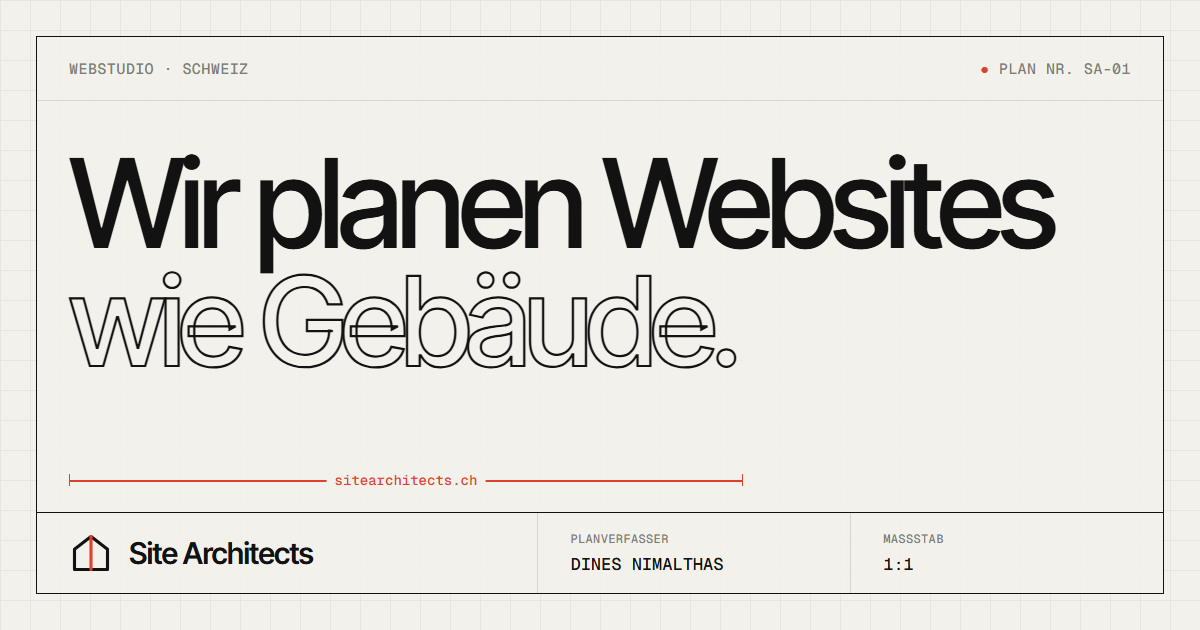
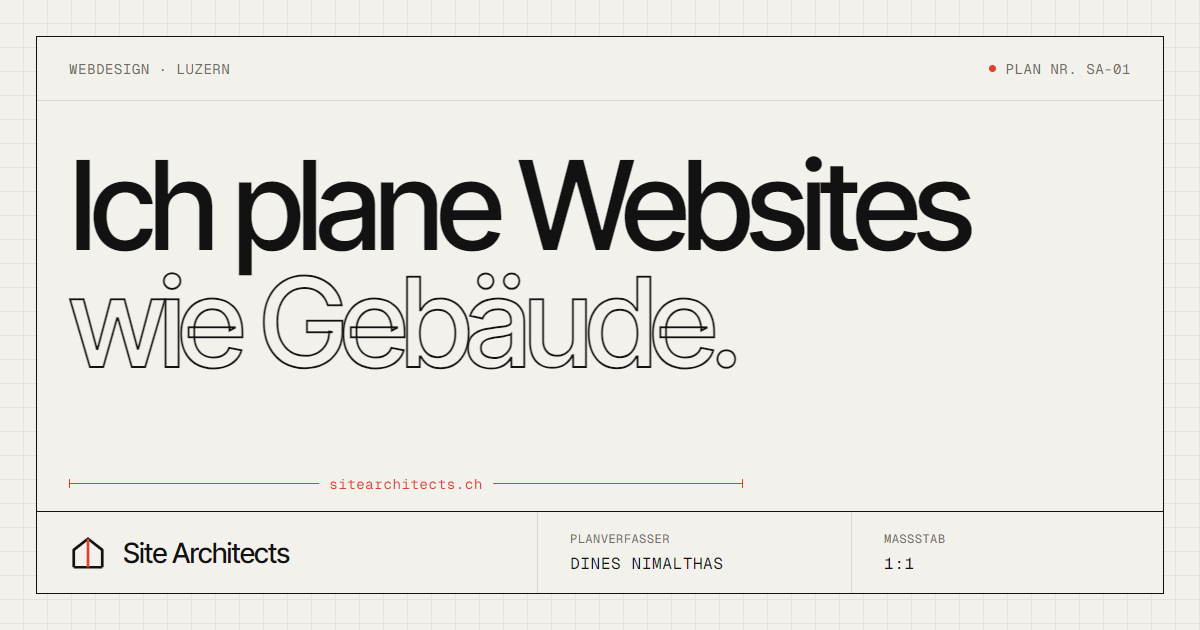
Ich-Form statt Wir, NN Architektur entfernt, neues Vorschaubild
- Texte auf Website und Datenschutz in der Ich-Form (Einzelperson)
- Projekt NN Architektur entfernt, da die Seite nicht mehr online ist
- og-image neu: "Ich plane Websites wie Gebäude.", Webdesign · Luzern

diff --git a/index.html b/index.html
@@ -8,17 +8,17 @@
   <meta property="og:type"        content="website" />
   <meta property="og:url"         content="https://sitearchitects.ch/" />
   <meta property="og:title"       content="Site Architects – Webdesign aus Luzern" />
-  <meta property="og:description" content="Wir planen Websites wie Gebäude. Individuell gestaltet und von Hand programmiert für KMU, Vereine und Selbstständige." />
+  <meta property="og:description" content="Ich plane Websites wie Gebäude. Individuell gestaltet und von Hand programmiert für KMU, Vereine und Selbstständige." />
   <meta name="twitter:title"       content="Site Architects – Webdesign aus Luzern" />
-  <meta name="twitter:description" content="Wir planen Websites wie Gebäude. Individuell gestaltet und von Hand programmiert." />
+  <meta name="twitter:description" content="Ich plane Websites wie Gebäude. Individuell gestaltet und von Hand programmiert." />
   <meta property="og:site_name"    content="Site Architects" />
-  <meta property="og:image"        content="https://sitearchitects.ch/assets/img/og-image.png?v=1" />
+  <meta property="og:image"        content="https://sitearchitects.ch/assets/img/og-image.png?v=2" />
   <meta property="og:image:width"  content="1200" />
   <meta property="og:image:height" content="630" />
-  <meta property="og:image:alt"    content="Site Architects – Wir planen Websites wie Gebäude." />
+  <meta property="og:image:alt"    content="Site Architects – Ich plane Websites wie Gebäude." />
   <meta property="og:locale"       content="de_CH" />
   <meta name="twitter:card"        content="summary_large_image" />
-  <meta name="twitter:image"       content="https://sitearchitects.ch/assets/img/og-image.png?v=1" />
+  <meta name="twitter:image"       content="https://sitearchitects.ch/assets/img/og-image.png?v=2" />
 
   <title>Site Architects – Webdesign aus Luzern, Schweiz</title>
   <link rel="canonical" href="https://sitearchitects.ch/" />
@@ -110,7 +110,7 @@
       <span>Webdesign · Luzern</span>
       <span>Plan Nr. SA-01</span>
     </div>
-    <h1 class="hero__title"><span class="hero__title-1">Wir planen Websites</span> <span class="hero__title-2">wie Gebäude.</span></h1>
+    <h1 class="hero__title"><span class="hero__title-1">Ich plane Websites</span> <span class="hero__title-2">wie Gebäude.</span></h1>
     <div class="hero__row">
       <p class="hero__lead">
         Erst der Plan, dann der Bau. Site Architects gestaltet und programmiert Websites
@@ -341,26 +341,12 @@
         </a>
       </article>
 
-      <article class="sheet">
-        <a class="sheet__inner" href="https://nnarchitektur.netlify.app" target="_blank" rel="noopener">
-          <div class="sheet__info">
-            <h3>NN Architektur</h3>
-            <dl class="titleblock">
-              <div><dt>Bauherr</dt><dd>NN Architektur</dd></div>
-              <div><dt>Branche</dt><dd>Architekturbüro, Hünenberg</dd></div>
-              <div><dt>Leistungen</dt><dd>Webdesign, Portfolio</dd></div>
-              <div><dt>Adresse</dt><dd>nnarchitektur.netlify.app <span class="arr">↗</span></dd></div>
-            </dl>
-          </div>
-          <figure class="sheet__shot"><img src="assets/img/work/nnarchitektur.jpg" alt="Startseite von NN Architektur" width="1440" height="900" loading="lazy" decoding="async" /></figure>
-        </a>
-      </article>
 
       <article class="sheet sheet--cta">
         <a class="sheet__inner" href="#kontakt">
           <div class="sheet__info">
             <h3>Ihr Projekt</h3>
-            <p>Der nächste Plan kann Ihrer sein. Erzählen Sie uns, was Sie vorhaben.</p>
+            <p>Der nächste Plan kann Ihrer sein. Erzählen Sie mir, was Sie vorhaben.</p>
             <span class="btn btn--light">Projekt besprechen</span>
           </div>
           <figure class="sheet__shot sheet__shot--plan" aria-hidden="true">
@@ -417,7 +403,7 @@
 
       <div class="about__body">
         <p class="about__lead">
-          Ich bin Dines Nimalthas und habe Site Architects gegründet. Wenn Sie mit uns arbeiten,
+          Ich bin Dines Nimalthas und habe Site Architects gegründet. Wenn Sie mit Site Architects arbeiten,
           sprechen Sie mit mir. Ich plane, gestalte und programmiere Ihre Website selbst.
         </p>
         <p>
@@ -468,7 +454,7 @@
           <h2>Vier Phasen. Wie auf dem Bau.</h2>
         </div>
         <p class="section__intro">
-          Architekten bauen nicht ohne Plan, und wir auch nicht. Jede Phase hat ein klares Ergebnis,
+          Architekten bauen nicht ohne Plan, und ich auch nicht. Jede Phase hat ein klares Ergebnis,
           das Sie sehen und freigeben, bevor es weitergeht.
         </p>
       </div>
@@ -478,7 +464,7 @@
           <svg class="phase__icon draw-svg" viewBox="0 0 64 64" aria-hidden="true"><rect x="12" y="10" width="34" height="44" rx="2"/><path d="M18 20h20M18 27h22M18 34h14"/><path class="ic-red" d="M40 50l14-22 4 3-14 22-5 2z"/></svg>
           <span class="phase__code mono">Phase 1</span>
           <h3>Vorstudie</h3>
-          <p>Erstgespräch zu Zielen, Zielgruppe und Inhalten. Wir schauen uns Ihre heutige Seite und Ihr Umfeld an.</p>
+          <p>Erstgespräch zu Zielen, Zielgruppe und Inhalten. Ich schaue mir Ihre heutige Seite und Ihr Umfeld an.</p>
           <p class="phase__out mono">Ergebnis: Offerte mit Festpreis</p>
         </li>
         <li class="phase">
@@ -510,7 +496,7 @@
   <section class="section wrap" id="leistungen">
     <div class="section__head">
       <p class="eyebrow mono"><span>04</span> Leistungen</p>
-      <h2>Was wir bauen.</h2>
+      <h2>Was ich baue.</h2>
     </div>
 
     <ul class="rows">
@@ -524,7 +510,7 @@
         <span class="row__num mono">B</span>
         <h3>Redesigns</h3>
         <svg class="row__icon draw-svg" data-draw viewBox="0 0 64 64" aria-hidden="true"><rect x="8" y="18" width="30" height="24" rx="2"/><rect x="26" y="28" width="30" height="24" rx="2"/><path class="ic-red" d="M42 9a12 12 0 0 1 12 12m0 0l3.5-4.5m-3.5 4.5l-4.5-3.5"/></svg>
-        <p>Ihre bestehende Seite, neu geplant. Wir behalten, was funktioniert, und bauen den Rest neu.</p>
+        <p>Ihre bestehende Seite, neu geplant. Ich behalte, was funktioniert, und baue den Rest neu.</p>
       </li>
       <li class="row">
         <span class="row__num mono">C</span>
@@ -553,7 +539,7 @@
       <div>
         <p class="eyebrow mono"><span>05</span> FAQ</p>
         <h2>Häufige Fragen</h2>
-        <p class="section__intro">Ihre Frage ist nicht dabei? Schreiben Sie uns, wir antworten innert 24 Stunden.</p>
+        <p class="section__intro">Ihre Frage ist nicht dabei? Schreiben Sie mir, ich antworte innert 24 Stunden.</p>
       </div>
 
       <div class="faq">
@@ -567,7 +553,7 @@
         </details>
         <details>
           <summary>Kann ich Inhalte später selbst ändern?</summary>
-          <p>Ja, wenn Sie das möchten. Wir können ein einfaches CMS einrichten, mit dem Sie Texte, Bilder oder News selbst pflegen. Alternativ übernehmen wir Änderungen für Sie.</p>
+          <p>Ja, wenn Sie das möchten. Ich kann ein einfaches CMS einrichten, mit dem Sie Texte, Bilder oder News selbst pflegen. Alternativ übernehme ich Änderungen für Sie.</p>
         </details>
         <details>
           <summary>Verwenden Sie Vorlagen oder Baukästen?</summary>
@@ -575,7 +561,7 @@
         </details>
         <details>
           <summary>Übernehmen Sie auch ein Redesign meiner bestehenden Seite?</summary>
-          <p>Ja. Wir prüfen zuerst, was an Ihrer aktuellen Seite funktioniert und was nicht, und übernehmen bestehende Inhalte, wo es sinnvoll ist.</p>
+          <p>Ja. Ich prüfe zuerst, was an Ihrer aktuellen Seite funktioniert und was nicht, und übernehme bestehende Inhalte, wo es sinnvoll ist.</p>
         </details>
       </div>
     </div>
@@ -587,7 +573,7 @@
       <h2 class="contact__big">Bauen wir <span>etwas.</span></h2>
       <div class="contact">
         <div class="contact__intro">
-          <p>Ein paar Sätze genügen. Wir melden uns innert 24 Stunden mit einer ersten Einschätzung, unverbindlich und kostenlos.</p>
+          <p>Ein paar Sätze genügen. Ich melde mich innert 24 Stunden mit einer ersten Einschätzung, unverbindlich und kostenlos.</p>
           <a href="mailto:sitearchitects.dn@gmail.com" class="contact__mail">sitearchitects.dn@gmail.com</a>
           <a href="https://www.linkedin.com/in/dines-nimalthas-b06981230" class="contact__li" target="_blank" rel="noopener">LinkedIn ↗</a>
         </div>
@@ -619,7 +605,7 @@
             <textarea name="message" rows="5" required></textarea>
           </label>
           <button type="submit" class="btn btn--accent" id="cfSubmit"><span>Nachricht senden</span></button>
-          <p class="form__status form__status--ok" id="cfSuccess" role="status">Danke für Ihre Nachricht. Wir melden uns innert 24 Stunden.</p>
+          <p class="form__status form__status--ok" id="cfSuccess" role="status">Danke für Ihre Nachricht. Ich melde mich innert 24 Stunden.</p>
           <p class="form__status form__status--err" id="cfError" role="alert">Das Senden hat nicht geklappt. Bitte versuchen Sie es erneut oder schreiben Sie direkt an sitearchitects.dn@gmail.com.</p>
         </form>
       </div>

diff --git a/datenschutz.html b/datenschutz.html
@@ -11,13 +11,13 @@
   <meta property="og:title"       content="Datenschutz – Site Architects" />
   <meta property="og:description" content="Datenschutzerklärung von Site Architects nach Schweizer Datenschutzgesetz." />
   <meta property="og:site_name"    content="Site Architects" />
-  <meta property="og:image"        content="https://sitearchitects.ch/assets/img/og-image.png?v=1" />
+  <meta property="og:image"        content="https://sitearchitects.ch/assets/img/og-image.png?v=2" />
   <meta property="og:image:width"  content="1200" />
   <meta property="og:image:height" content="630" />
-  <meta property="og:image:alt"    content="Site Architects – Wir planen Websites wie Gebäude." />
+  <meta property="og:image:alt"    content="Site Architects – Ich plane Websites wie Gebäude." />
   <meta property="og:locale"       content="de_CH" />
   <meta name="twitter:card"        content="summary_large_image" />
-  <meta name="twitter:image"       content="https://sitearchitects.ch/assets/img/og-image.png?v=1" />
+  <meta name="twitter:image"       content="https://sitearchitects.ch/assets/img/og-image.png?v=2" />
   <link rel="icon" href="assets/img/favicon.svg?v=2" type="image/svg+xml" />
   <link rel="icon" href="favicon.ico?v=2" sizes="any" />
   <link rel="icon" href="assets/img/icon-180.png?v=2" type="image/png" sizes="180x180" />
@@ -66,7 +66,7 @@
   <ul>
     <li>Keine Cookies, kein Tracking, keine Analyse- oder Werbedienste.</li>
     <li>Schriften und Bilder werden direkt von dieser Website geladen, nicht von Google oder anderen Drittanbietern.</li>
-    <li>Personendaten erhalten wir nur, wenn Sie uns über das Formular oder per E-Mail kontaktieren.</li>
+    <li>Personendaten erhalte ich nur, wenn Sie mich über das Formular oder per E-Mail kontaktieren.</li>
   </ul>
 
   <h2>3. Besuch der Website (Hosting)</h2>
@@ -81,18 +81,18 @@
   <p>
     Wenn Sie das Kontaktformular nutzen, werden Ihr Name, Ihre E-Mail-Adresse, die gewählte Projektart und Ihre Nachricht
     über den Dienst Web3Forms (<a href="https://web3forms.com/privacy" target="_blank" rel="noopener">web3forms.com</a>)
-    an unser E-Mail-Postfach weitergeleitet. Das Postfach wird bei Google (Gmail) geführt. Schreiben Sie uns direkt per E-Mail,
-    erhalten wir die Angaben aus Ihrer Nachricht.
+    an mein E-Mail-Postfach weitergeleitet. Das Postfach wird bei Google (Gmail) geführt. Schreiben Sie mir direkt per E-Mail,
+    erhalte ich die Angaben aus Ihrer Nachricht.
   </p>
   <p>
-    Wir verwenden diese Daten nur, um Ihre Anfrage zu beantworten und gegebenenfalls ein Angebot zu erstellen.
-    Wir geben sie nicht an Dritte weiter und nutzen sie nicht für Werbung.
+    Ich verwende diese Daten nur, um Ihre Anfrage zu beantworten und gegebenenfalls ein Angebot zu erstellen.
+    Ich gebe sie nicht an Dritte weiter und nutze sie nicht für Werbung.
   </p>
 
   <h2>5. Speicherung im Browser</h2>
   <p>
     Die Website legt im Browser (sessionStorage) einen Vermerk ab, dass die Einstiegsanimation bereits gezeigt wurde.
-    Dieser Vermerk enthält keine Personendaten, wird nicht an uns übermittelt und beim Schliessen des Tabs automatisch gelöscht.
+    Dieser Vermerk enthält keine Personendaten, wird nicht an mich übermittelt und beim Schliessen des Tabs automatisch gelöscht.
   </p>
 
   <h2>6. Links zu anderen Websites</h2>
@@ -110,7 +110,7 @@
 
   <h2>8. Aufbewahrung</h2>
   <p>
-    Anfragen bewahren wir so lange auf, wie es für die Bearbeitung und eine allfällige Zusammenarbeit nötig ist.
+    Anfragen bewahre ich so lange auf, wie es für die Bearbeitung und eine allfällige Zusammenarbeit nötig ist.
     Danach werden sie gelöscht, sofern keine gesetzliche Aufbewahrungspflicht besteht.
   </p>
 
@@ -121,20 +121,20 @@
     <a href="mailto:sitearchitects.dn@gmail.com">sitearchitects.dn@gmail.com</a> genügt.
   </p>
   <p>
-    Wenn Sie der Meinung sind, dass wir Ihre Daten nicht korrekt bearbeiten, können Sie sich an den Eidgenössischen
+    Wenn Sie der Meinung sind, dass ich Ihre Daten nicht korrekt bearbeite, können Sie sich an den Eidgenössischen
     Datenschutz- und Öffentlichkeitsbeauftragten wenden (<a href="https://www.edoeb.admin.ch" target="_blank" rel="noopener">edoeb.admin.ch</a>).
   </p>
 
   <h2>10. Besucherinnen und Besucher aus der EU</h2>
   <p>
-    Soweit die Datenschutz-Grundverordnung (DSGVO) anwendbar ist, stützen wir die Bearbeitung auf unser berechtigtes Interesse
+    Soweit die Datenschutz-Grundverordnung (DSGVO) anwendbar ist, stütze ich die Bearbeitung auf mein berechtigtes Interesse
     am sicheren Betrieb der Website (Art. 6 Abs. 1 lit. f DSGVO) und auf vorvertragliche Massnahmen bei Anfragen
     (Art. 6 Abs. 1 lit. b DSGVO). Sie haben zusätzlich das Recht auf Datenübertragbarkeit und auf Beschwerde bei der
     Aufsichtsbehörde Ihres Landes.
   </p>
 
   <h2>11. Änderungen</h2>
-  <p>Wir passen diese Erklärung an, wenn sich die Website oder die eingesetzten Dienste ändern. Es gilt die hier veröffentlichte Fassung.</p>
+  <p>Ich passe diese Erklärung an, wenn sich die Website oder die eingesetzten Dienste ändern. Es gilt die hier veröffentlichte Fassung.</p>
 </main>
 
 </body>
